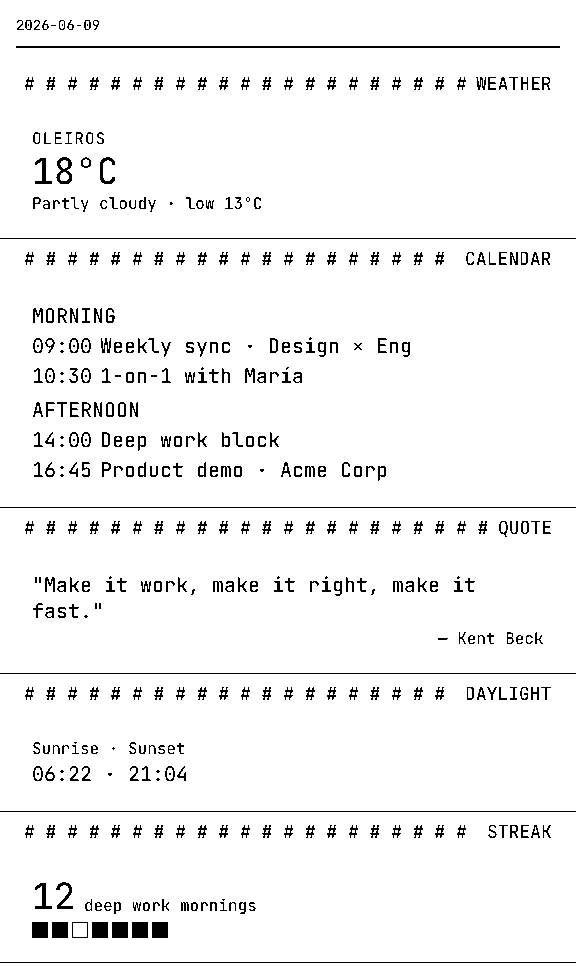
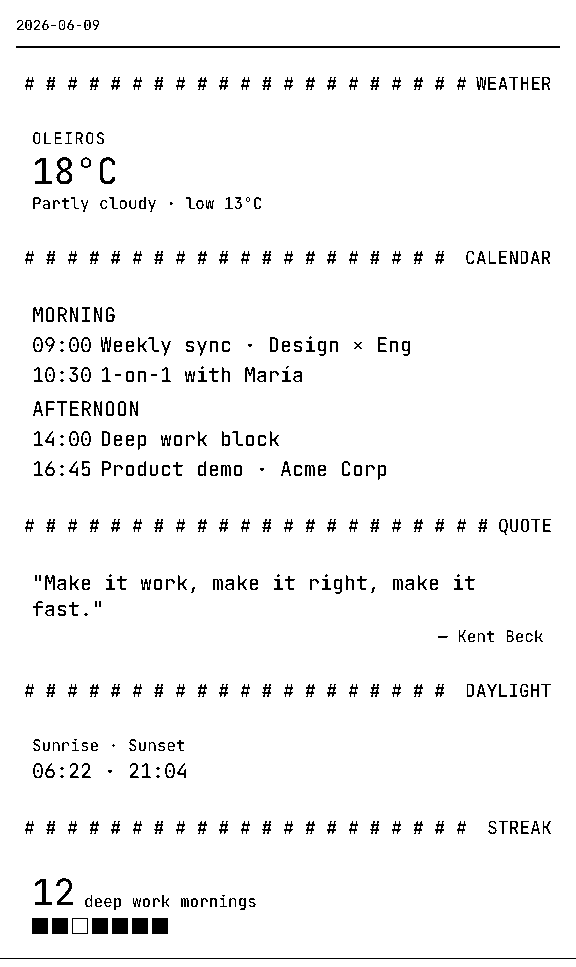
fix: remove hardcoded separator from builtin blocks so theme separatorThickness is respected

diff --git a/src/blocks/key-value.tsx b/src/blocks/key-value.tsx
@@ -53,6 +53,6 @@ export const keyValueBlock: BlockDefinition<KeyValueData> = defineBlock({
       </div>
     );
   },
-  shell: { showTitle: true, separator: "thin", padding: "normal" },
+  shell: { showTitle: true, padding: "normal" },
   hints: ["Required: `data.label`, `data.value`", "Docs: docs/blocks/key-value.md"],
 });

diff --git a/src/blocks/kpi.tsx b/src/blocks/kpi.tsx
@@ -66,7 +66,7 @@ export const kpiBlock: BlockDefinition<KpiData> = defineBlock({
       </div>
     );
   },
-  shell: { showTitle: true, separator: "thin", padding: "normal" },
+  shell: { showTitle: true, padding: "normal" },
   hints: [
     "Required: `data.value`",
     "Tip: Set `data.label` for an uppercase eyebrow above the value",

diff --git a/src/blocks/list.tsx b/src/blocks/list.tsx
@@ -109,7 +109,7 @@ export const listBlock: BlockDefinition<ListData> = defineBlock({
       </div>
     );
   },
-  shell: { showTitle: true, separator: "thin", padding: "normal" },
+  shell: { showTitle: true, padding: "normal" },
   hints: [
     "Required: `data.groups` (min 1), `data.groups[].items[]`",
     "Tip: Set `id` on items to render as bold prefix",

diff --git a/src/blocks/qa-pair.tsx b/src/blocks/qa-pair.tsx
@@ -52,6 +52,6 @@ export const qaPairBlock: BlockDefinition<QaPairData> = defineBlock({
       </div>
     );
   },
-  shell: { showTitle: true, separator: "thin", padding: "normal" },
+  shell: { showTitle: true, padding: "normal" },
   hints: ["Required: `data.question`, `data.answer`", "Docs: docs/blocks/qa-pair.md"],
 });

diff --git a/src/blocks/quotation.tsx b/src/blocks/quotation.tsx
@@ -67,7 +67,7 @@ export const quotationBlock: BlockDefinition<QuotationData> = defineBlock({
       </div>
     );
   },
-  shell: { showTitle: true, separator: "thin", padding: "normal" },
+  shell: { showTitle: true, padding: "normal" },
   hints: [
     "Required: `data.text`",
     "Tip: Set `data.attribution` to render an em-dash byline right-aligned below the quote",

diff --git a/src/blocks/text-cell.tsx b/src/blocks/text-cell.tsx
@@ -71,7 +71,7 @@ export const textCellBlock: BlockDefinition<TextCellData> = defineBlock({
       </div>
     );
   },
-  shell: { showTitle: true, separator: "thin", padding: "normal" },
+  shell: { showTitle: true, padding: "normal" },
   hints: [
     "Required: `data.text`",
     "Values of `data.align`: left|center|right|justify",

diff --git a/src/blocks/word-search.tsx b/src/blocks/word-search.tsx
@@ -133,7 +133,7 @@ export const wordSearchBlock: BlockDefinition<WordSearchData> = defineBlock({
       </div>
     );
   },
-  shell: { showTitle: true, separator: "thin", padding: "normal" },
+  shell: { showTitle: true, padding: "normal" },
   hints: [
     "Required: `data.grid` (string[][], 6–12 rows, 6–12 cols, rectangular)",
     "Required: `data.words` (string[], min 1)",

diff --git a/src/themes/builtins/mono.ts b/src/themes/builtins/mono.ts
@@ -37,7 +37,7 @@ export const monoTheme = defineTheme({
     titleAlignment: "right",
     titleFillChar: "#",
     contentPadding: "normal",
-    separatorThickness: "thin",
+    separatorThickness: "none",
     listItemBullet: "-",
   },
   header: {